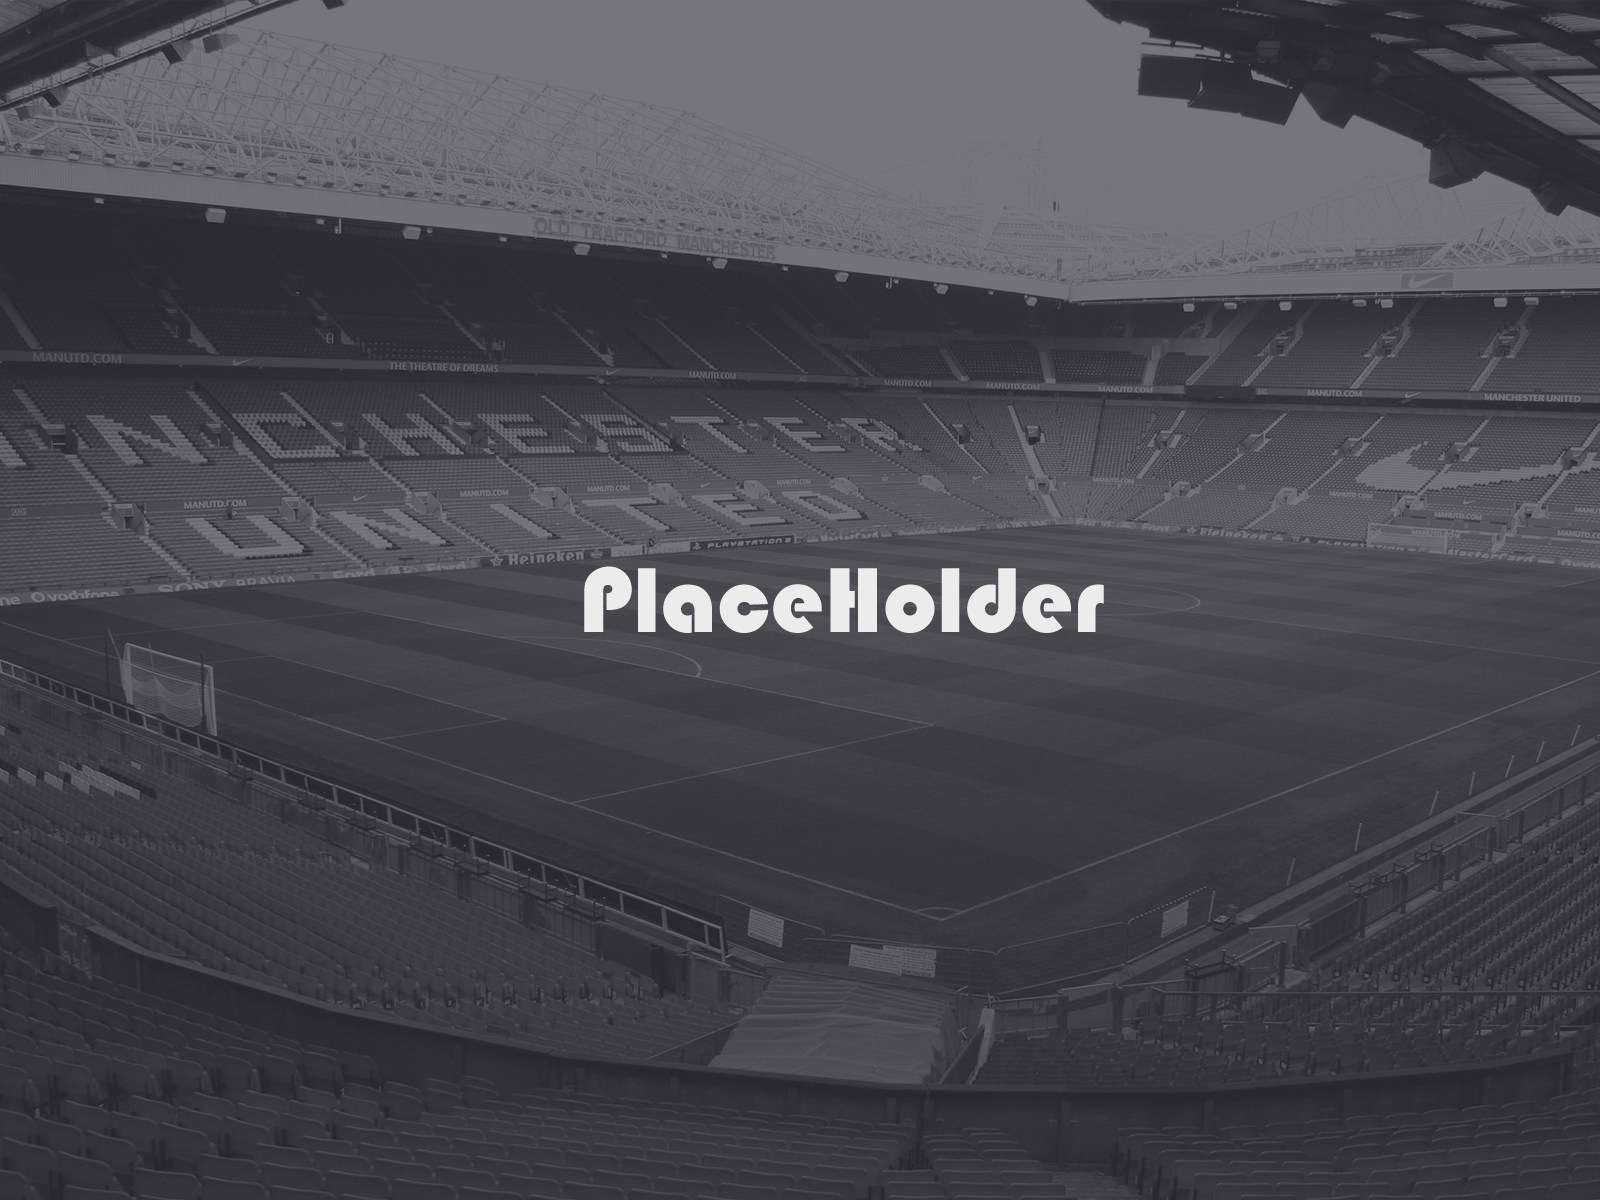
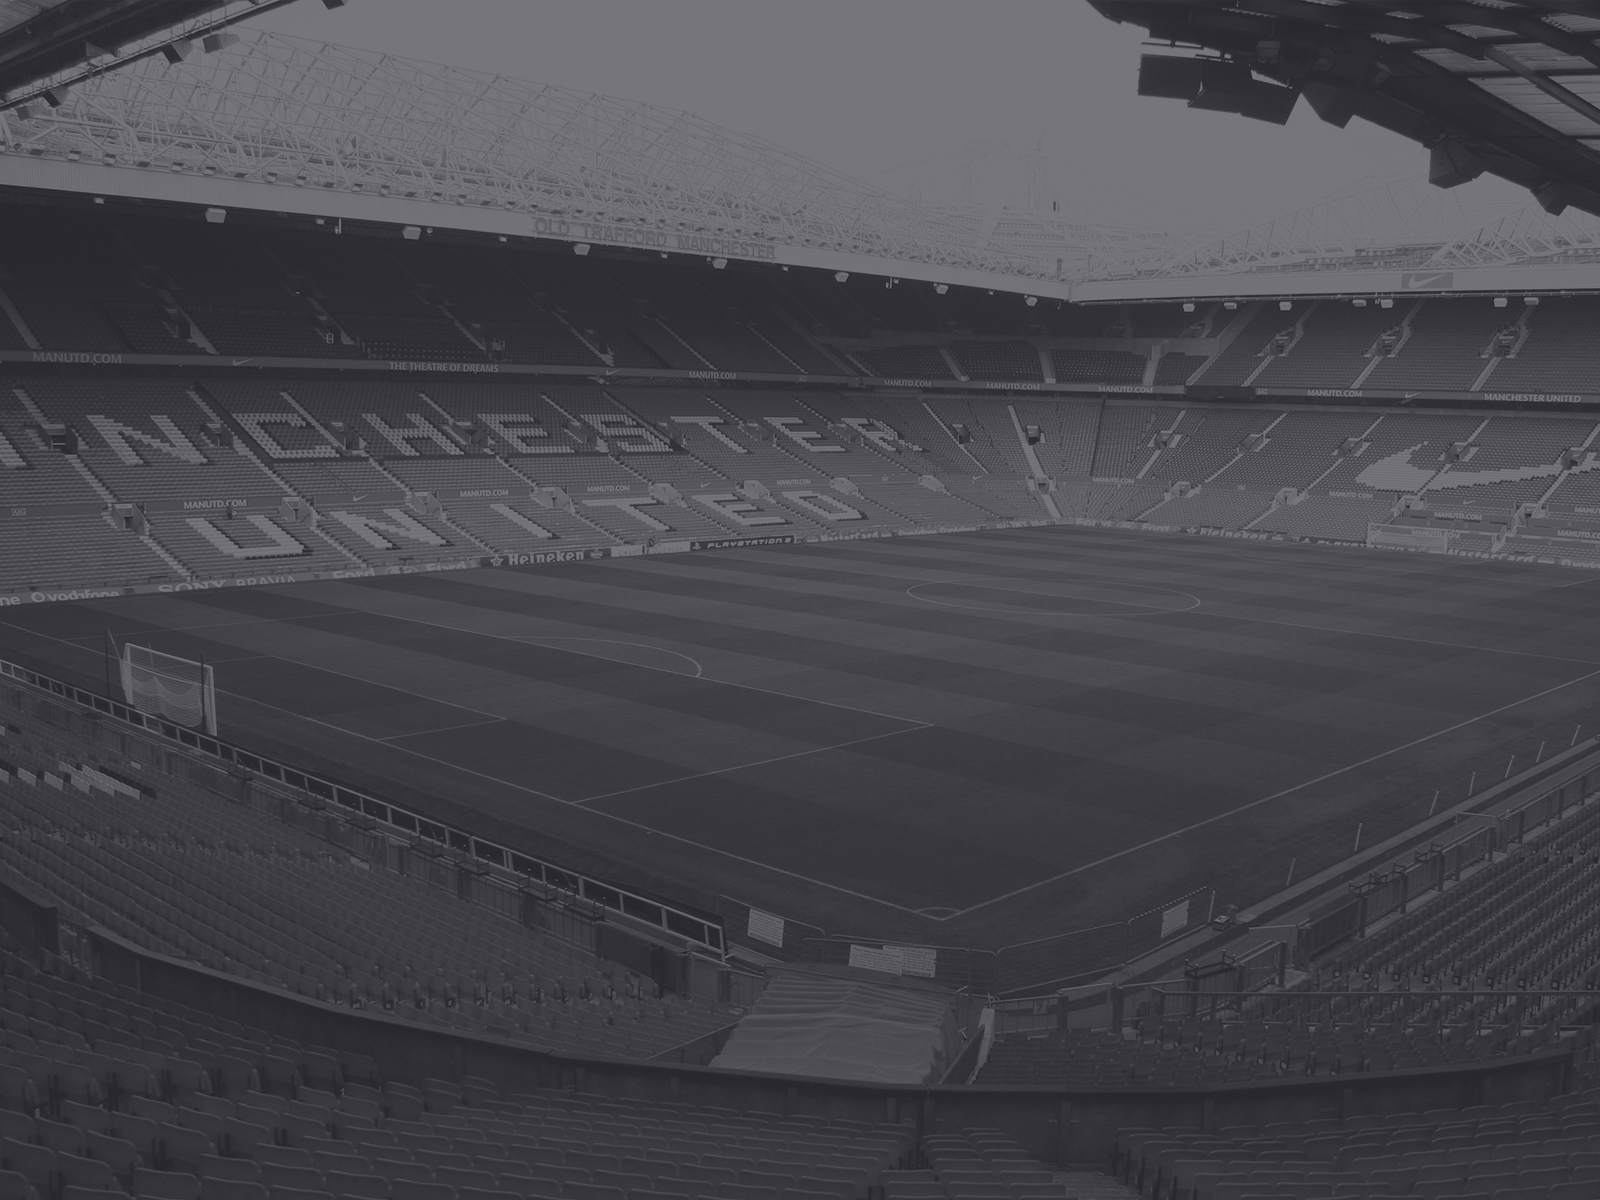
fixed image

Changed region(s): [[0.3438, 0.4625, 0.6875, 0.5242]]

diff --git a/index.html b/index.html
@@ -44,11 +44,8 @@
 </div>
   
 <div class="largeImage">
-	
-	<p>Lorem ipsum etc etc i can't remember what this is meant to say but I just need to check this is working...</p>
-	<br>
-	<br>
-	<h2>lorem ipsum</h2>
+
+	<h1 style = "position: relative; top: 50%; transform: translateY(-50%); color: #CCB68D; font-size: 50px;">Placeholder</h1>
 	
 </div>
 	  
@@ -58,6 +55,15 @@
 	     There's not a whole lot to showcase at the moment, but I'm hoping that will change in the near future. <br><br>
   	  All of my digital works are done using my Surface Pro 4 and Adobe CC Programmes.
     </p>
+    <br>
+    <br>
+    <br><br>
+    <br>
+    <br><br>
+    <br>
+    <br><br>
+    <br>
+    <br>
   </div>
 
 
